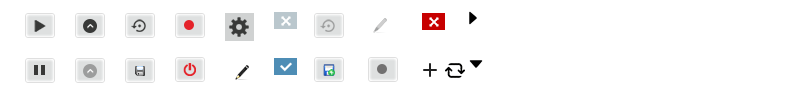
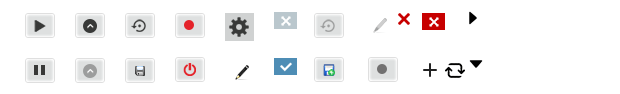
Resolved issue VMC-252: Memory limit cannot be removed completely from the UI

diff --git a/src/frontend/org/voltdb/dbmonitor/js/voltdb.admin.ui.js b/src/frontend/org/voltdb/dbmonitor/js/voltdb.admin.ui.js
@@ -171,6 +171,7 @@ function loadAdminPage() {
         btnEditMemorySize: $("#btnEditMemorySize"),
         btnEditMemorySizeOk: $("#btnEditMemorySizeOk"),
         btnEditMemorySizeCancel: $("#btnEditMemorySizeCancel"),
+        btnDeleteMemory: $("#btnDeleteMemory"),
         spanMemoryLimitSizeValue: $("#memoryLimitSize").text(),
         spanMemoryLimitSize: $("#memoryLimitSize"),
         txtMemoryLimitSize: $("#txtMemoryLimitSize"),
@@ -263,12 +264,14 @@ function loadAdminPage() {
             digits: "Please enter a positive number without any decimal."
         },
         memoryLimitRules: {
-            min: 0,
+            required:true,
+            min: 1,
             max: 99,
             digits: true
             //regex: /[^0-9\.]/ // "^[0-9]+(\.[0-9]{0,4})?$"
         },
         memoryLimitMessages: {
+            required: "This field is required",
             min: "Please enter a positive number.",
             max: "Please enter a positive number less than 100.",
             digits: "Please enter a positive number without any decimal." //"Only four digits are allowed after decimal."
@@ -1298,7 +1301,7 @@ function loadAdminPage() {
         }
     });
 
-        $("#formAddDiskLimit").validate();
+    $("#formAddDiskLimit").validate();
 
     adminEditObjects.btnEditAutoSnapshotOk.popup({
         open: function (event, ui, ele) {
@@ -1609,7 +1612,7 @@ function loadAdminPage() {
             adminEditObjects.spanMemoryLimitSize.show();
             adminEditObjects.ddlMemoryLimitSizeUnit.hide();
             adminEditObjects.spanMemoryLimitSizeUnit.show();
-            if (adminEditObjects.spanMemoryLimitSize.text() == "Not Enforced")
+//            if (adminEditObjects.spanMemoryLimitSize.text() == "Not Enforced")
                 adminEditObjects.spanMemoryLimitSizeUnit.text("");
         }
     };
@@ -1621,10 +1624,12 @@ function loadAdminPage() {
         var unit = $('#ddlMemoryLimitUnit').val();
         if (unit == "%") {
             $("#txtMemoryLimitSize").rules("add", {
-                min: 0,
+                required: true,
+                min: 1,
                 max: 99,
                 digits: true,
                 messages: {
+                    required: "This field is required",
                     min: "Please enter a positive number.",
                     max: "Maximum value of percentage cannot be greater than 99.",
                     digits: "Please enter a positive number without any decimal."
@@ -1632,9 +1637,11 @@ function loadAdminPage() {
             });
         } else if (unit == "GB") {
             $("#txtMemoryLimitSize").rules("add", {
-                min: 0,
+                required:true,
+                min: 1,
                 digits: true,
                 messages: {
+                    required: "This field is required",
                     min: "Please enter a positive number.",
                     digits: "Please enter a positive number without any decimal."
                 }
@@ -1736,6 +1743,7 @@ function loadAdminPage() {
 
     adminEditObjects.btnEditMemorySize.on("click", function () {
         toggleMemorySizeEdit(editStates.ShowOkCancel);
+        adminEditObjects.btnDeleteMemory.hide();
         $("td.memorySize span").toggleClass("unit");
     });
 
@@ -1751,6 +1759,7 @@ function loadAdminPage() {
             }, 2000);
         }
     });
+    
 
     adminEditObjects.btnEditMemorySizeCancel.on("click", function () {
         toggleMemorySizeEdit(editStates.ShowEdit);
@@ -1787,6 +1796,7 @@ function loadAdminPage() {
                     if (result.status == "1") {
                         adminEditObjects.spanMemoryLimitSizeValue = adminEditObjects.txtMemoryLimitSize.val();
                         adminEditObjects.spanMemoryLimitSize.html(adminEditObjects.spanMemoryLimitSizeValue);
+                        adminEditObjects.btnDeleteMemory.show();
 
                         //Reload Admin configurations for displaying the updated value
                         voltDbRenderer.GetAdminDeploymentInformation(false, function (adminConfigValues, rawConfigValues) {
@@ -1827,8 +1837,70 @@ function loadAdminPage() {
         }
     });
     //
+    
 
+    adminEditObjects.btnDeleteMemory.popup({
+        open: function (event, ui, ele) {
+        },
+        afterOpen: function () {
+            var popup = $(this)[0];
+            $("#btnDelPopupMemoryLimitOk").on("click", function () {
+                adminEditObjects.btnDeleteMemory.hide();
+                var adminConfigurations = VoltDbAdminConfig.getLatestRawAdminConfigurations();
+                if (adminConfigurations.systemsettings.resourcemonitor == null) {
+                    adminConfigurations.systemsettings.resourcemonitor = {};
+                }
+                if (adminConfigurations.systemsettings.resourcemonitor.memorylimit == null) {
+                    adminConfigurations.systemsettings.resourcemonitor.memorylimit = {};
+                }
+                //Set the new value to be saved.
+                var memoryLimitSize = "";
 
+               // memoryLimitSize = adminEditObjects.txtMemoryLimitSize.val() + (adminEditObjects.ddlMemoryLimitSizeUnit.val() == "%" ? "%" : "");
+                //adminEditObjects.txtMemoryLimitSize.val() + adminEditObjects.ddlMemoryLimitSizeUnit.val();
+
+                if (adminEditObjects.txtMemoryLimitSize.val() != "") {
+                    adminConfigurations.systemsettings.resourcemonitor.memorylimit.size = memoryLimitSize;
+                } else {
+                    adminConfigurations.systemsettings.resourcemonitor.memorylimit = null;
+                }
+                //Call the loading image only after setting the new value to be saved.
+                toggleMemorySizeEdit(editStates.ShowLoading);
+                voltDbRenderer.updateAdminConfiguration(adminConfigurations, function (result) {
+                    if (result.status == "1") {
+                        adminEditObjects.spanMemoryLimitSizeValue = adminEditObjects.txtMemoryLimitSize.val();
+                        adminEditObjects.spanMemoryLimitSize.html(adminEditObjects.spanMemoryLimitSizeValue);
+
+                        //Reload Admin configurations for displaying the updated value
+                        voltDbRenderer.GetAdminDeploymentInformation(false, function (adminConfigValues, rawConfigValues) {
+                            VoltDbAdminConfig.displayAdminConfiguration(adminConfigValues, rawConfigValues);
+                            toggleMemorySizeEdit(editStates.ShowEdit);
+                        });
+
+                    } else {
+                        toggleMemorySizeEdit(editStates.ShowEdit);
+                        var msg = '"' + adminEditObjects.memoryLimitErrorFieldMsg + '". ';
+                        if (result.status == "-1" && result.statusstring == "Query timeout.") {
+                            msg += "The Database is either down, very slow to respond or the server refused connection. Please try to edit when the server is back online.";
+                        } else {
+                            msg += "Please try again later.";
+                        }
+
+                        adminEditObjects.memoryLimitUpdateErrorFieldMsg.text(msg);
+                        $("#memorySizeUpdateErrorPopupLink").trigger("click");
+                    }
+                });
+                //Close the popup
+                popup.close();
+            });
+
+            $("#btnDelPopupMemoryLimitCancel").on("click", function () {
+                popup.close();
+            });
+
+        }
+    });
+    
     //Disk Limit
     adminEditObjects.btnEditDiskSize.on("click", function () {
         toggleDiskSizeEdit(editStates.ShowOkCancel);
@@ -3503,18 +3575,26 @@ function loadAdminPage() {
             adminDOMObjects.tempTablesMaxSize.text(adminConfigValues.tempTablesMaxSize != null ? adminConfigValues.tempTablesMaxSize : "");
             adminDOMObjects.tempTablesMaxSizeLabel.text(adminConfigValues.tempTablesMaxSize != null ? "MB" : "");
             adminDOMObjects.snapshotPriority.text(adminConfigValues.snapshotPriority);
+           // debugger;
             var memoryLimitText = adminConfigValues.memorylimit;
             var memoryLimitUnit = "GB";
             var memoryLimitValue = 0;
             if (memoryLimitText != undefined && memoryLimitText.indexOf("%") > -1) {
                 memoryLimitUnit = "%";
                 memoryLimitValue = memoryLimitText.replace("%", "");
+                if (adminEditObjects.btnEditMemorySize.is(":visible")) {
+                    adminEditObjects.btnDeleteMemory.show();
+                }
             } else if (memoryLimitText != undefined && memoryLimitText.indexOf("%") == -1) {
                 memoryLimitValue = memoryLimitText;
+                if (adminEditObjects.btnEditMemorySize.is(":visible")) {
+                    adminEditObjects.btnDeleteMemory.show();
+                }
             } else if (memoryLimitText == undefined) {
                 memoryLimitValue = undefined;
+                adminEditObjects.btnDeleteMemory.hide();
             }
-            adminDOMObjects.memoryLimitSize.text(adminConfigValues.memorylimit != undefined ? memoryLimitValue : "Not Enforced");
+            adminDOMObjects.memoryLimitSize.text(adminConfigValues.memorylimit != undefined ? memoryLimitValue : "");
             if (!VoltDbAdminConfig.isMemoryLimitEditMode)
                 adminDOMObjects.memoryLimitSizeUnit.text(adminConfigValues.memorylimit != undefined ? memoryLimitUnit : "");
             adminEditObjects.spanMemoryLimitSizeValue = memoryLimitValue;
@@ -3537,6 +3617,8 @@ function loadAdminPage() {
             getDrMode(adminConfigValues.drListen);
 
             getImportProperties(adminConfigValues.importConfiguration);
+            
+            
 
             getDiskLimits(adminConfigValues.disklimit);
             //adminConfigValues.drListen = false;

diff --git a/src/frontend/org/voltdb/dbmonitor/index.htm b/src/frontend/org/voltdb/dbmonitor/index.htm
@@ -800,11 +800,11 @@
                                 </tr>
                                 <tr class="child-row-6 subLabelRow" id="memorySizeTimeout">
                                     <td class="configLabel">Memory Limit</td>
-                                    <td align="right" class="memorySize">
+                                    <td align="right" class="btnEditMemorySize">
                                         <form id="formMemoryLimit" method="get" action="">
                                             <div id="loadingMemoryLimit" class="loading-small" style="display: none;"></div>
                                             <span id="memoryLimitSize"></span>
-                                            <input id="txtMemoryLimitSize" name="txtMemoryLimitSize" placeholder="Not Enforced" class="exitableMemoryLimit" type="text" style="display: none" />
+                                            <input id="txtMemoryLimitSize" name="txtMemoryLimitSize"  class="exitableMemoryLimit" type="text" style="display: none" />
                                             <span id="memoryLimitSizeUnit"></span>
                                             <select id="ddlMemoryLimitUnit" style="display: none;">
                                                 <option>GB</option>
@@ -815,10 +815,12 @@
                                     </td>
                                     <td>&nbsp;</td>
                                     <td>
+                                       
                                         <a id="btnEditMemorySizeOk" href="#MemoryLimitPopup" class="editOk" title="Save" style="">Ok</a>
                                         <a id="btnEditMemorySizeCancel" href="javascript:void(0)" class="editCancel" title="Cancel" style="">Cancel</a>
                                         <a id="btnEditMemorySize" href="javascript:void(0)" class="edit" title="Edit">&nbsp;</a>
                                         <a href="#addDiskLimitPopup" id="addDiskLimitPopupLink" data-id="-1" title="Add Disk Limit" style="display: none">Add Disk Limit</a>
+                                        <a id="btnDeleteMemory" href="#deleteMemoryLimitPopup" class="deleteSmall" title="Delete" style="display:none;">&nbsp;</a>
                                     </td>
 
                                 </tr>
@@ -1532,6 +1534,15 @@
             <p class="txt-bold">Do you want to save the value?</p>
         </div>
         <div class="overlay-btns"><a class="btn" id="btnPopupMemoryLimitOk">Ok</a> <a class="btn btn-gray" id="btnPopupMemoryLimitCancel">Cancel</a> </div>
+    </div>
+    
+    <div id="deleteMemoryLimitPopup" style="display:none">
+        <div class="overlay-title icon-alert">Memory Limit</div>
+        <div class="clear"></div>
+        <div class="overlay-content confirmationHeight">
+            <p class="txt-bold">Do you want to delete the value?</p>
+        </div>
+        <div class="overlay-btns"><a class="btn" id="btnDelPopupMemoryLimitOk">Ok</a> <a class="btn btn-gray" id="btnDelPopupMemoryLimitCancel">Cancel</a> </div>
     </div>
 
     <!-- POPUP Query timeout Popup -->

diff --git a/src/frontend/org/voltdb/dbmonitor/css/resources/layout.css b/src/frontend/org/voltdb/dbmonitor/css/resources/layout.css
@@ -84,7 +84,7 @@ a.alertIcon,
 input.icon-search,
 a.save-search,
 a.icon-search,
-ul.clusterStat, li.activeServerName,
+ul.clusterStat, li.activeServerName, 
 a.showServers, a.hideServers, .popup_close, .icon-document, .icon-tables, .icon-procedures, .pref-storedProc, .pref-tables, .pref-graph, .icon-server, #toggleMenu, .iconDeleteAddConfig, .drArrow, .icon-master, .icon-replica, .icon-command {
     background-image: url(images/voltdb-icon-sprite.png) !important;
     background-repeat: no-repeat;
@@ -142,6 +142,8 @@ a.alertIcon {
 .showhideIcon {
     height: 25px;
 }
+
+
 
 /******sprite Ends*************/
 
@@ -2172,7 +2174,7 @@ ul.helpSchemaList {
 .arrow,
 .labelCollapsed,
 .labelExpanded,
-a.restoreConfirmationDisable, .securityDelete, .exportDelete, .plusAdd {
+a.restoreConfirmationDisable, .securityDelete, .exportDelete, .plusAdd,.deleteSmall {
     background-image: url(images/admin-icons.png);
 }
 
@@ -2296,7 +2298,7 @@ ul.adminClusterList li a.stop {
 
 ul.adminClusterList li a.shutdown {
     display: inline-block;
-    background-position: -965px -56px;
+    background-position: -358px -56px;
     width: 40px;
     height: 36px;
 }
@@ -2488,6 +2490,16 @@ ul.adminClusterList li a.shutdown {
     height: 17px;
     position: relative;
     top: 5px;
+   
+}
+
+.deleteSmall {
+    background-position: -388px -103px;
+    width: 31px;
+    height: 17px;
+    position: relative;
+    top: 8px;
+    display: inline-block;
 }
 
 .edit {
@@ -3045,7 +3057,7 @@ a.restoreBtn {
 }
 
 .securityDelete {
-    background-position: -1221px -12px;
+    background-position: -421px -12px;
     width: 25px;
     height: 20px;
     position: relative;
